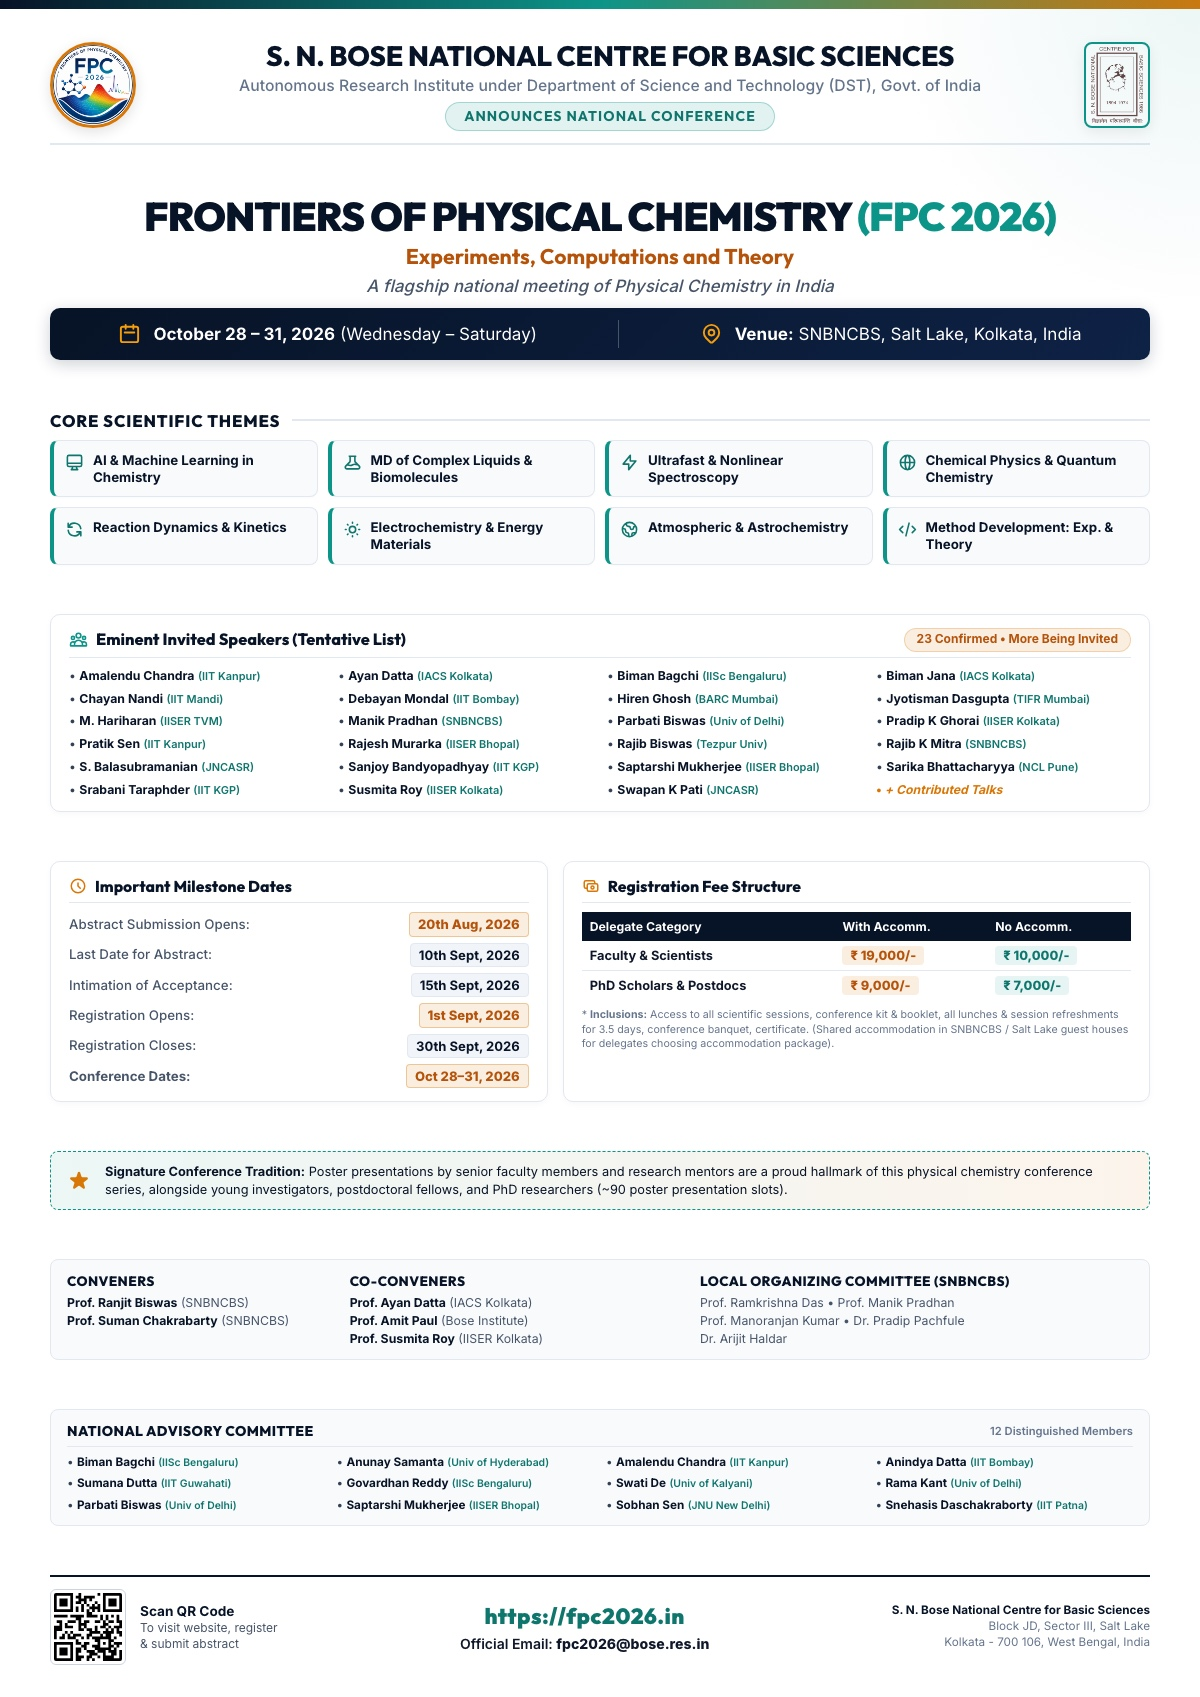
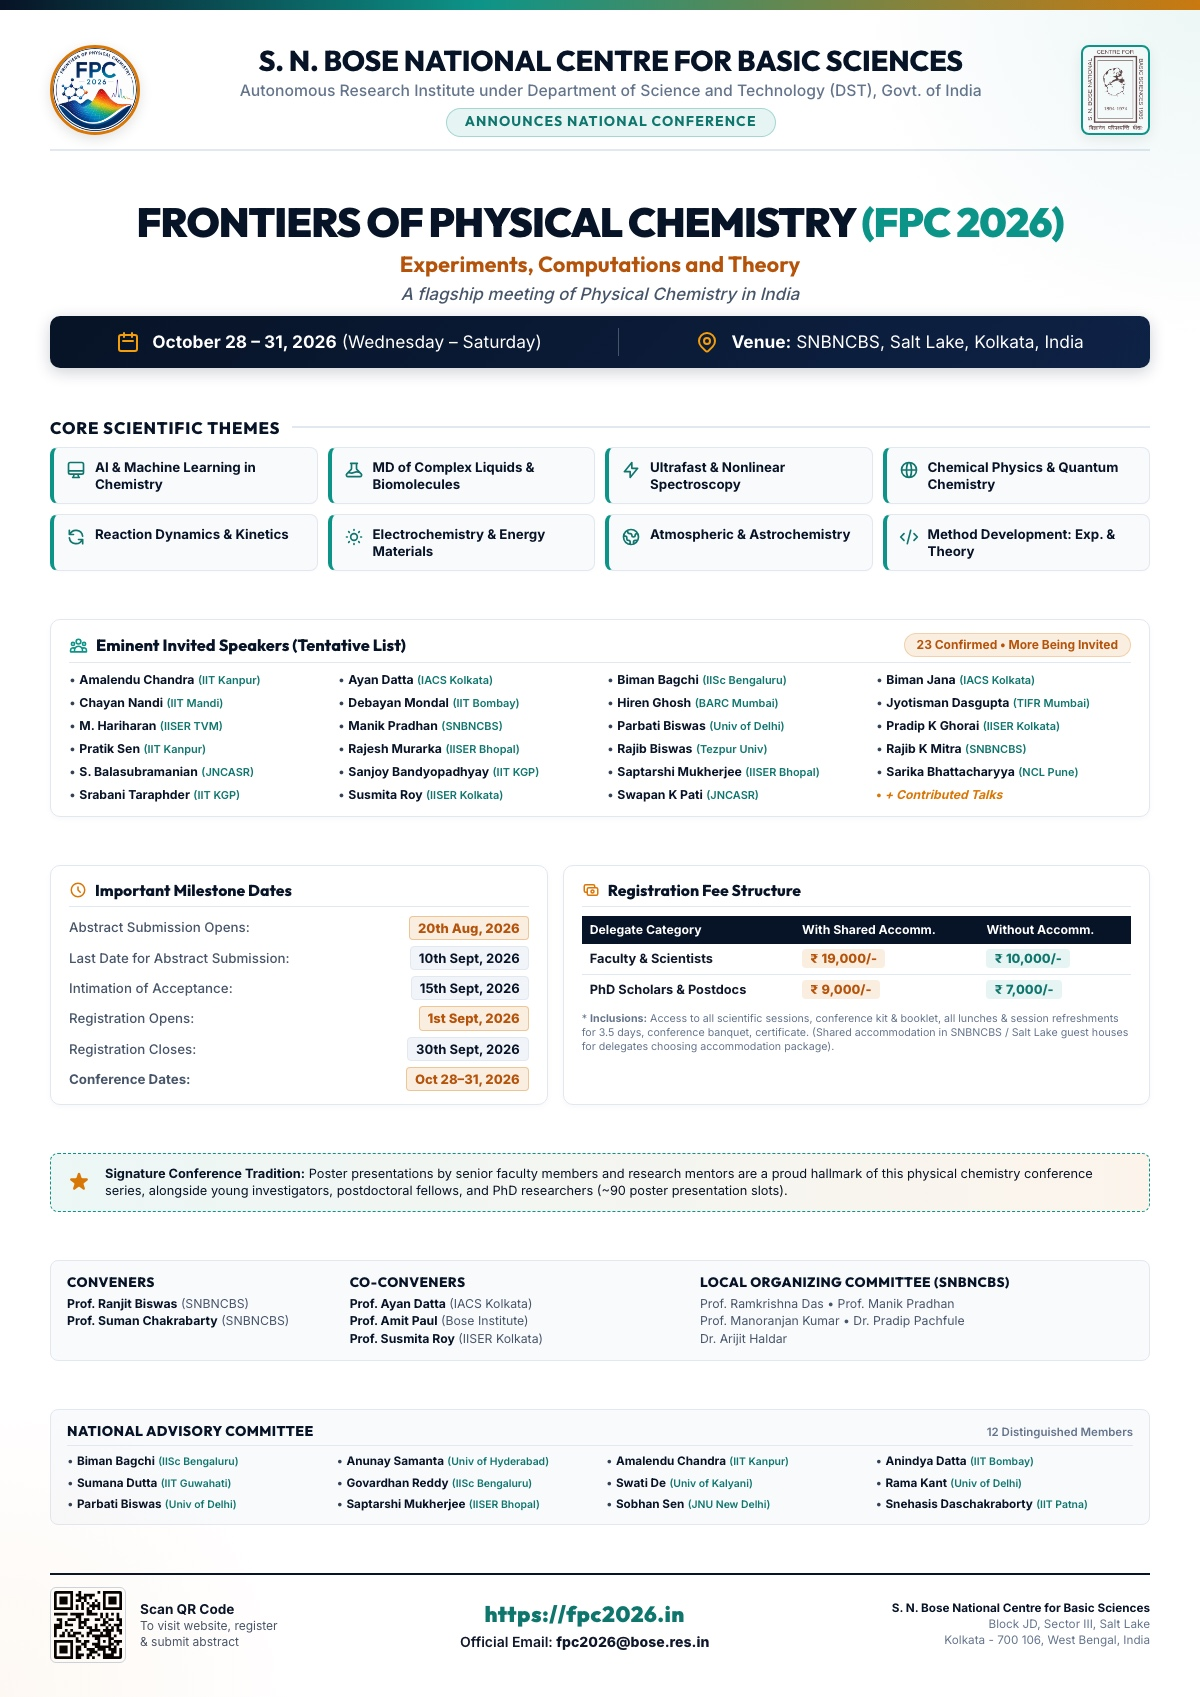
Finalize professional, balanced A4 flyer images and HTML templates for FPC 2026

diff --git a/flyer-image.html b/flyer-image.html
@@ -4,10 +4,10 @@
   <meta charset="UTF-8">
   <title>Frontiers of Physical Chemistry 2026 (FPC 2026) - A4 Flyer</title>
   
-  <!-- Fonts -->
+  <!-- Premium Fonts -->
   <link rel="preconnect" href="https://fonts.googleapis.com">
   <link rel="preconnect" href="https://fonts.gstatic.com" crossorigin>
-  <link href="https://fonts.googleapis.com/css2?family=Inter:wght@300;400;500;600;700;800&family=Outfit:wght@500;600;700;800;900&display=swap" rel="stylesheet">
+  <link href="https://fonts.googleapis.com/css2?family=Inter:wght@400;500;600;700;800&family=Outfit:wght@600;700;800;900&display=swap" rel="stylesheet">
 
   <style>
     * {
@@ -33,7 +33,7 @@
       width: 1200px;
       height: 1697px;
       background: #ffffff;
-      padding: 40px 50px 32px 50px;
+      padding: 44px 50px 34px 50px;
       display: flex;
       flex-direction: column;
       justify-content: space-between;
@@ -47,17 +47,27 @@
       top: 0;
       left: 0;
       right: 0;
-      height: 9px;
-      background: linear-gradient(90deg, #071326 0%, #0d9488 50%, #d97706 100%);
+      height: 10px;
+      background: linear-gradient(90deg, #071326 0%, #0d9488 40%, #d97706 100%);
     }
 
     .corner-glow {
       position: absolute;
       top: 0;
       right: 0;
-      width: 320px;
-      height: 320px;
+      width: 350px;
+      height: 350px;
       background: radial-gradient(circle at top right, rgba(13, 148, 136, 0.08) 0%, transparent 70%);
+      pointer-events: none;
+    }
+
+    .corner-glow-left {
+      position: absolute;
+      bottom: 0;
+      left: 0;
+      width: 300px;
+      height: 300px;
+      background: radial-gradient(circle at bottom left, rgba(217, 119, 6, 0.05) 0%, transparent 70%);
       pointer-events: none;
     }
 
@@ -71,8 +81,8 @@
     }
 
     .logo-fpc {
-      width: 86px;
-      height: 86px;
+      width: 90px;
+      height: 90px;
       border-radius: 50%;
       object-fit: cover;
       border: 3.5px solid #d97706;
@@ -89,7 +99,7 @@
 
     .inst-title {
       font-family: 'Outfit', sans-serif;
-      font-size: 21pt;
+      font-size: 21.5pt;
       font-weight: 800;
       color: #071326;
       letter-spacing: -0.01em;
@@ -111,15 +121,15 @@
       text-transform: uppercase;
       letter-spacing: 0.08em;
       color: #0f766e;
-      background: rgba(13, 148, 136, 0.12);
+      background: rgba(13, 148, 136, 0.1);
       padding: 3.5px 18px;
       border-radius: 999px;
-      margin-top: 5px;
+      margin-top: 6px;
       border: 1.5px solid rgba(13, 148, 136, 0.3);
     }
 
     .logo-snb {
-      height: 86px;
+      height: 90px;
       width: auto;
       border-radius: 8px;
       border: 2px solid #0d9488;
@@ -133,11 +143,12 @@
     /* 2. Conference Title Section */
     .title-section {
       text-align: center;
+      margin: 2px 0 0 0;
     }
 
     .conf-main-title {
       font-family: 'Outfit', sans-serif;
-      font-size: 30pt;
+      font-size: 30.5pt;
       font-weight: 900;
       color: #071326;
       line-height: 1.12;
@@ -151,7 +162,7 @@
 
     .conf-subtitle {
       font-family: 'Outfit', sans-serif;
-      font-size: 16pt;
+      font-size: 16.5pt;
       font-weight: 700;
       color: #b45309;
       margin-bottom: 2px;
@@ -181,12 +192,12 @@
       display: flex;
       align-items: center;
       gap: 12px;
-      font-size: 12.8pt;
+      font-size: 13pt;
     }
 
     .meta-icon {
-      width: 23px;
-      height: 23px;
+      width: 24px;
+      height: 24px;
       color: #f59e0b;
       flex-shrink: 0;
     }
@@ -232,7 +243,7 @@
       background: #f8fafc;
       border: 1px solid #e2e8f0;
       border-radius: 8px;
-      padding: 11px 11px;
+      padding: 11px 12px;
       display: flex;
       align-items: flex-start;
       gap: 9px;
@@ -241,8 +252,8 @@
     }
 
     .theme-icon {
-      width: 19px;
-      height: 19px;
+      width: 20px;
+      height: 20px;
       color: #0f766e;
       flex-shrink: 0;
       margin-top: 1px;
@@ -268,7 +279,7 @@
       display: flex;
       align-items: center;
       justify-content: space-between;
-      margin-bottom: 10px;
+      margin-bottom: 9px;
       padding-bottom: 5px;
       border-bottom: 1.5px solid #e2e8f0;
     }
@@ -616,6 +627,7 @@
   <div class="flyer-container">
     <div class="top-gradient-bar"></div>
     <div class="corner-glow"></div>
+    <div class="corner-glow-left"></div>
 
     <!-- 1. Header -->
     <header class="header">
@@ -639,7 +651,7 @@
         Experiments, Computations and Theory
       </div>
       <div class="conf-tagline">
-        A flagship national meeting of Physical Chemistry in India
+        A flagship meeting of Physical Chemistry in India
       </div>
 
       <!-- Dates & Venue Meta Banner -->
@@ -789,7 +801,7 @@
             <span class="date-val">20th Aug, 2026</span>
           </div>
           <div class="date-row">
-            <span class="date-label">Last Date for Abstract:</span>
+            <span class="date-label">Last Date for Abstract Submission:</span>
             <span class="date-val">10th Sept, 2026</span>
           </div>
           <div class="date-row">
@@ -824,8 +836,8 @@
           <thead>
             <tr>
               <th>Delegate Category</th>
-              <th>With Accomm.</th>
-              <th>No Accomm.</th>
+              <th>With Shared Accomm.</th>
+              <th>Without Accomm.</th>
             </tr>
           </thead>
           <tbody>
@@ -891,7 +903,7 @@
     <div class="advisory-box">
       <div class="advisory-title-row">
         <span class="advisory-title">National Advisory Committee</span>
-        <span style="font-size: 8.4pt; color: #64748b; font-weight: 600;">12 Distinguished Members</span>
+        <span style="font-size: 8.6pt; color: #64748b; font-weight: 600;">12 Distinguished Members</span>
       </div>
 
       <div class="advisory-grid">
